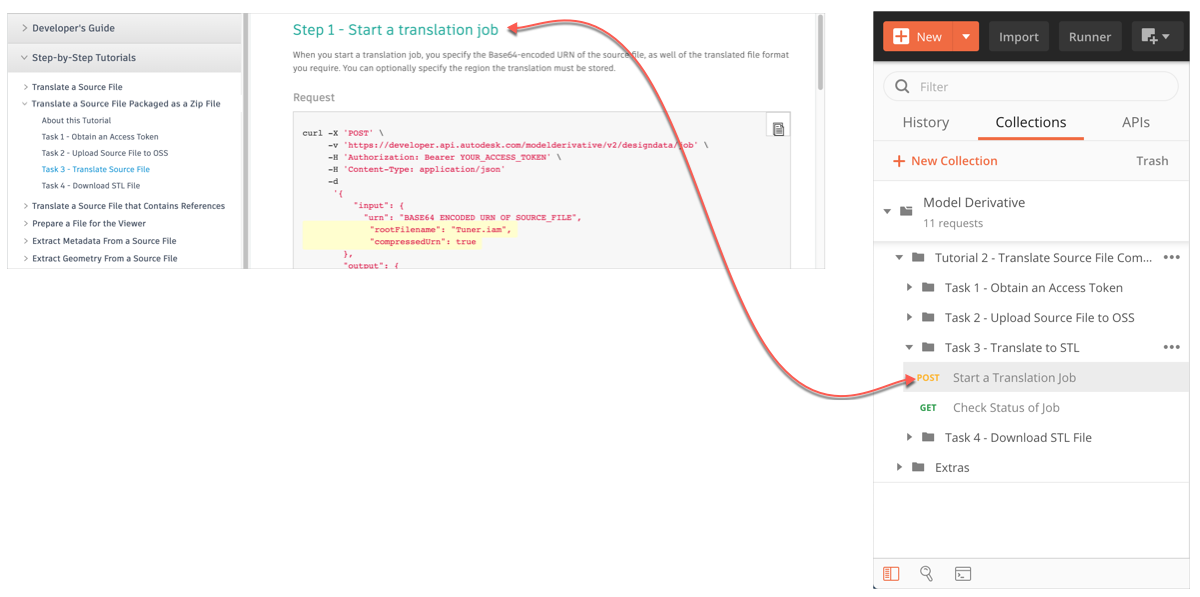
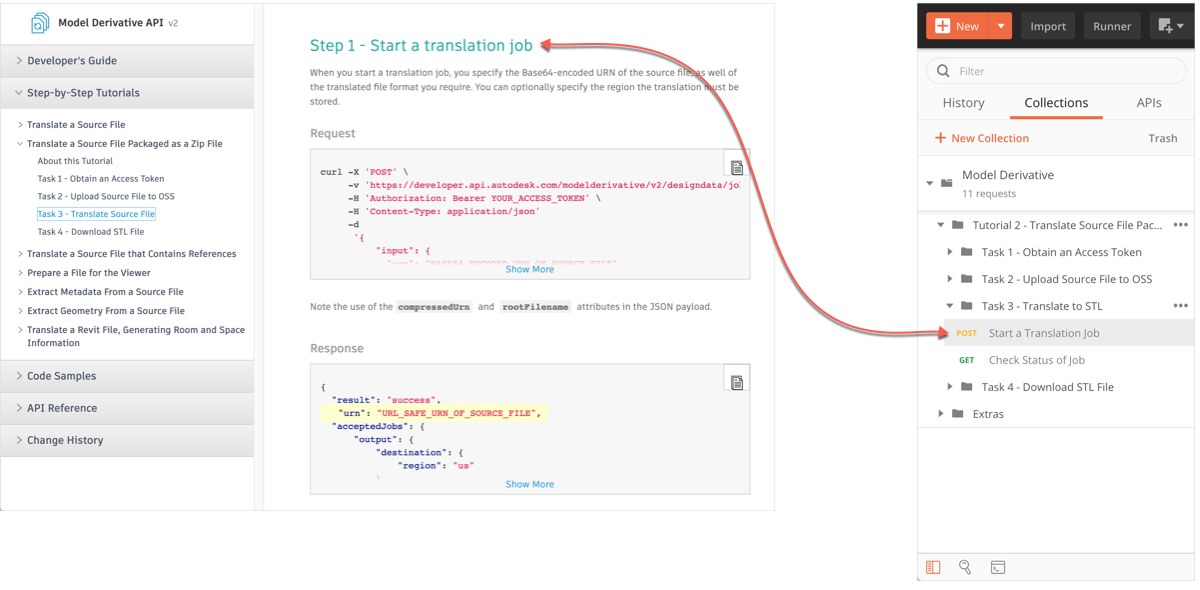
Fixed renaming issue

diff --git a/ModelDerivative_02/readme.md b/ModelDerivative_02/readme.md
@@ -1,4 +1,4 @@
-# Translate a Source File Compressed as a Zip File
+# Translate a Source File Packaged as a Zip File
 
 ![Platforms](https://img.shields.io/badge/Web-Windows|MacOS-lightgray.svg)
 [![oAuth2](https://img.shields.io/badge/Authentication-v1-green.svg)](http://developer.autodesk.com/)
@@ -11,7 +11,7 @@
 ![Beginner](https://img.shields.io/badge/Level-Beginner-green.svg)
 [![License](https://img.shields.io/:license-MIT-blue.svg)](http://opensource.org/licenses/MIT)
 
-This folder contains a Postman Collection that contains the requests used in the Model Deivative Step-by-Step Tutorial [Translate a Source File Packaged as a Zip File](https://dev.forge.autodesk.com/en/docs/model-derivative/v2/tutorials/translate-zip-to-stl/), which is published on the Forge portal. 
+This folder contains a Postman Collection that contains the requests used in the Model Deivative Step-by-Step Tutorial [Translate a Source File Packaged as a Zip File](https://dev.forge.autodesk.com/en/docs/model-derivative/v2/tutorials/translate-zip-to-stl/), which is published on the Forge portal.
 
 In the Postman sidebar, requests are stored in folders that have the same name as the corresponding task in the tutorial on the Forge portal.
 
